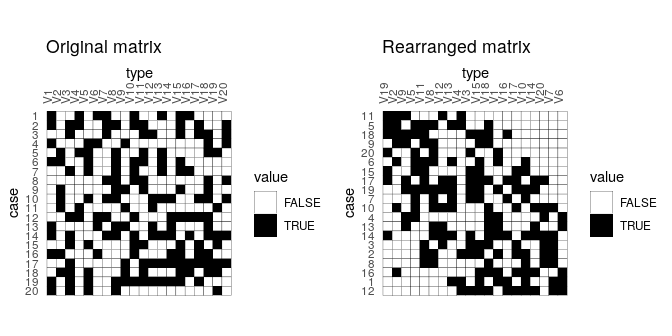
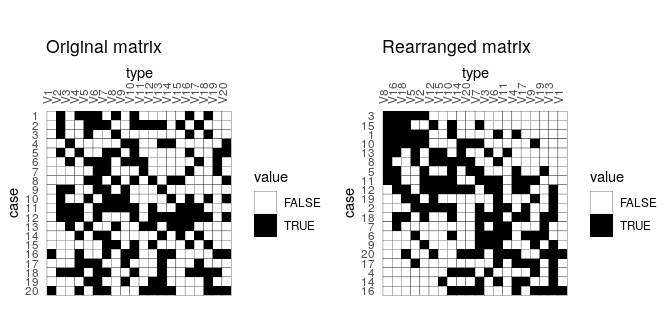
Update README and fix NAMESPACE

diff --git a/README.md b/README.md
@@ -12,12 +12,12 @@ tabula <img width=120px src="man/figures/logo.svg" align="right" />
 Overview
 --------
 
-`tabula` provides an easy way to examine archaeological count data (artifacts, faunal remains, etc.). This package includes several measures of diversity: e.g. richness and rarefaction (Chao1, Chao2, ACE, ICE, etc.), diversity/dominance and evenness (Brillouin, Shannon, Simpson, etc.), turnover and similarity. It also provides matrix seriation methods for chronological modeling and dating. The package make it easy to visualize count data and statistical thresholds: rank/abundance plots, Ford (1962) and Bertin (1977) diagrams, etc.
+`tabula` provides an easy way to examine archaeological count data (artifacts, faunal remains, etc.). This package includes several measures of diversity: e.g. richness and rarefaction (Chao1, Chao2, ACE, ICE, etc.), diversity/dominance and evenness (Brillouin, Shannon, Simpson, etc.), turnover and similarity (Brainerd-Robinson, ...). It also provides matrix seriation methods (reciprocal ranking, CA-based seriation, IDSS) for chronological modeling and dating. The package make it easy to visualize count data and statistical thresholds: rank/abundance plots, Ford and Bertin diagrams, etc.
 
 Installation
 ------------
 
-Install the released version of `tabula` from CRAN:
+You can install the released version of `tabula` from [CRAN](https://CRAN.R-project.org) with:
 
 ``` r
 install.packages("tabula")
@@ -38,6 +38,7 @@ Usage
 -   Abundance matrix:
     -   `CountMatrix` represents count data,
     -   `FrequencyMatrix` represents frequency data.
+    -   `SimilarityMatrix` represents a (dis)similarity matrix.
 -   Logical matrix:
     -   `IncidenceMatrix` represents presence/absence data.
     -   `OccurrenceMatrix` represents a co-occurence matrix.
@@ -83,14 +84,11 @@ D <- as(A1, "OccurrenceMatrix")
 
 ### Analysis
 
-``` r
-count <- as(compiegne, "CountMatrix")
-```
-
 #### Sample richness
 
 ``` r
-richness(count, method = c("margalef", "menhinick", "chao1"), simplify = TRUE)
+compiegne <- as(compiegne, "CountMatrix")
+richness(compiegne, method = c("margalef", "menhinick", "chao1"), simplify = TRUE)
 #>   margalef  menhinick chao1
 #> 5 1.176699 0.07933617    13
 #> 4 1.323459 0.07568907    15
@@ -104,7 +102,7 @@ richness(count, method = c("margalef", "menhinick", "chao1"), simplify = TRUE)
 *Diversity* can be measured according to several indices (sometimes refered to as indices of *heterogeneity*):
 
 ``` r
-diversity(count, method = c("shannon", "brillouin", "simpson", "mcintosh", "berger"), simplify = TRUE)
+diversity(compiegne, method = c("shannon", "brillouin", "simpson", "mcintosh", "berger"), simplify = TRUE)
 #>    shannon brillouin   simpson  mcintosh    berger
 #> 5 1.311123  1.309565 0.3648338 0.3983970 0.5117318
 #> 4 1.838332  1.836827 0.2246218 0.5287042 0.3447486
@@ -115,45 +113,21 @@ diversity(count, method = c("shannon", "brillouin", "simpson", "mcintosh", "berg
 
 Note that `berger`, `mcintosh` and `simpson` methods return a *dominance* index, not the reciprocal form usually adopted, so that an increase in the value of the index accompanies a decrease in diversity.
 
-*Evenness* is a measure of how evenly individuals are distributed across the sample:
+Corresponding *evenness* (i.e. a measure of how evenly individuals are distributed across the sample) can also be computed.
 
-``` r
-evenness(count, method = c("shannon", "brillouin", "simpson", "mcintosh"), simplify = TRUE)
-#>     shannon brillouin   simpson  mcintosh
-#> 5 0.5111691 0.5109738 0.2108442 0.5479357
-#> 4 0.6788396 0.6787091 0.2967952 0.7091340
-#> 3 0.7349264 0.7348441 0.3637822 0.7806408
-#> 2 0.8901817 0.8901334 0.6018087 0.9035975
-#> 1 0.8286460 0.8285786 0.4929544 0.8585271
-```
+#### Turnover and Similarity
 
-#### Turnover
-
-The following method can be used to acertain the degree of *turnover* in taxa composition along a gradient (*β*-diversity) on qualitative (presence/absence) data.
-
-It assumes that the order of the matrix rows (from 1 to *n*) follows the progression along the gradient/transect.
-
-``` r
-turnover(count, method = c("whittaker", "cody", "routledge1",
-                           "routledge2", "routledge3", "wilson"),
-         simplify = TRUE)
-#>  whittaker       cody routledge1 routledge2 routledge3     wilson 
-#> 0.05263158 1.50000000 0.00000000 0.04061480 1.04145086 0.09868421
-```
-
-#### Similarity coefficients
+The several methods can be used to acertain the degree of *turnover* in taxa composition along a gradient (*β*-diversity) on qualitative (presence/absence) data. It assumes that the order of the matrix rows (from 1 to *n*) follows the progression along the gradient/transect.
 
 *β*-diversity can also be measured by addressing *similarity* between pairs of sites:
 
 ``` r
-similarity(count, method = "morisita")
-#>           5         4         3         2         1
-#> 5 1.0000000 0.9162972 0.7575411 0.6670201 0.6286479
-#> 4 0.9162972 1.0000000 0.8879556 0.7964064 0.7106784
-#> 3 0.7575411 0.8879556 1.0000000 0.8251501 0.6637747
-#> 2 0.6670201 0.7964064 0.8251501 1.0000000 0.9224228
-#> 1 0.6286479 0.7106784 0.6637747 0.9224228 1.0000000
+mississippi <- as(mississippi, "CountMatrix")
+C <- similarity(mississippi, method = "brainerd")
+plotSpot(C)
 ```
+
+![](man/figures/README-similarity-brainerd-1.png)
 
 ### Seriation
 
@@ -164,17 +138,18 @@ incidence <- IncidenceMatrix(data = sample(0:1, 400, TRUE, c(0.6, 0.4)),
 
 # Get seriation order on rows and columns
 # Correspondance analysis-based seriation
+set.seed(12345)
 (indices <- seriate(incidence, method = "correspondance", margin = c(1, 2)))
 #> Permutation order for matrix seriation: 
-#>    Row order: 11 5 18 9 20 6 15 17 19 7 10 4 13 14 3 2 8 16 1 12 
-#>    Column order: 19 2 9 5 11 8 12 13 4 3 15 18 1 16 17 10 14 20 7 6 
+#>    Row order: 3 15 1 10 13 8 5 11 12 19 2 18 7 6 9 20 17 4 14 16 
+#>    Column order: 8 16 18 5 2 12 15 10 14 20 7 3 6 11 4 17 9 19 13 1 
 #>    Method: correspondance
+
+# Permute matrix rows and columns
+incidence2 <- permute(incidence, indices)
 ```
 
 ``` r
-# Permute matrix rows and columns
-incidence2 <- permute(incidence, indices)
-
 # Plot matrix
 library(ggplot2)
 plotMatrix(incidence) + 
@@ -194,6 +169,7 @@ plotMatrix(incidence2) +
 Bertin of Ford (battleship curve) diagramms can be plotted, with statistic threshold (B. Desachy's sériographe [1]). The positive difference from the column mean percentage (in french "écart positif au pourcentage moyen", EPPM) represents a deviation from the situation of statistical independence. EPPM is a usefull graphical tool to explore significance of relationship between rows and columns related to seriation.
 
 ``` r
+count <- as(compiegne, "CountMatrix")
 plotBar(count, EPPM = TRUE)
 ```
 
